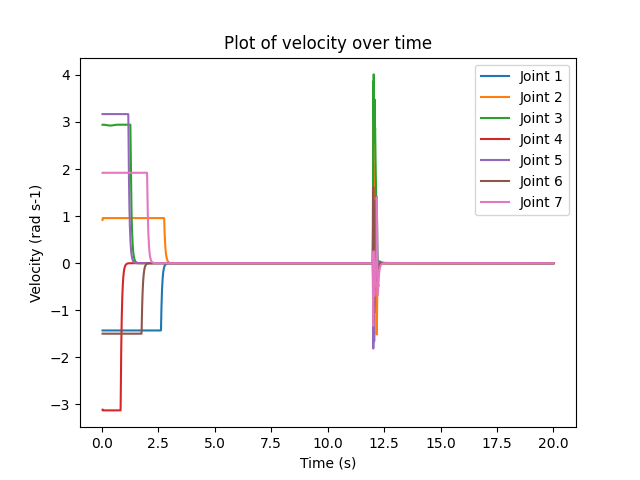
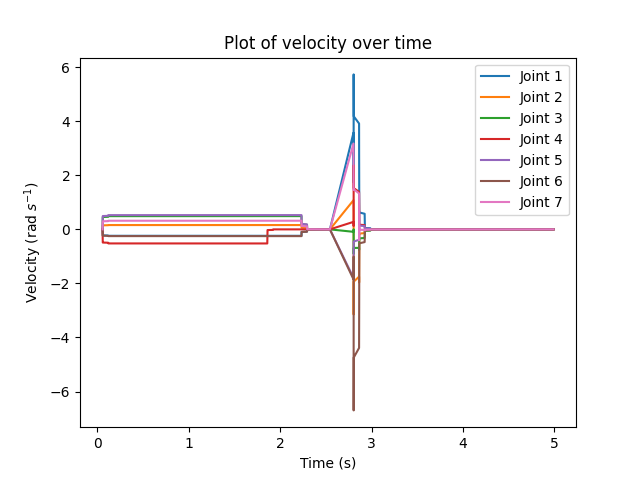
Trajectory Motion

diff --git a/main.py b/main.py
@@ -7,10 +7,18 @@ import pybullet_data
 import numpy as np
 import matplotlib.pyplot as plt
 from mpl_toolkits.mplot3d import Axes3D
+from matplotlib.animation import FuncAnimation
+
+import warnings
+warnings.simplefilter("ignore")
+warnings.filterwarnings("ignore", category=UserWarning, module="pybullet")
+
 
 
 robot_urdf = "kuka_lbr_iiwa_support/urdf/lbr_iiwa_14_r820.urdf"
 collision_index = None
+collison_joint = None
+predicted_joint = None
 
 
 def main():
@@ -30,10 +38,13 @@ def main():
     base_position = [0, 0, 0]
     robot = p.loadURDF(robot_urdf, base_position, useFixedBase=1)
 
+
     # Get the number of joints
     num_joints = p.getNumJoints(robot)
 
-    duration=20
+
+    initial_pos = [state[0] for state in p.getJointStates(robot, range(7))]
+    duration=5
     time_step = 1/240
     p.setTimeStep(time_step)
 
@@ -50,12 +61,10 @@ def main():
     
     print(final_joint_positions)
 
-    change = []
-    for jointIndex in range(num_joints-2):
-        # targetPositions[jointIndex] = jointPositions[jointIndex]
-        change.append(final_joint_positions[jointIndex] / duration)  # Calculate increment for each joint
-    print(change)
 
+
+    trajectory = get_trajectory(simulation_steps,initial_pos,final_joint_positions)
+    
     p_0 = None
     r_0 = None
     previous_velocities = None
@@ -72,8 +81,6 @@ def main():
     all_link_positions = {i: [] for i in range(num_joints)}
     kinetic_energy = []
 
-    position_errors = []
-
     # Display in the simulation how the robot goes from initial position, to our desired position
 
     startTime = time.time()
@@ -81,24 +88,21 @@ def main():
     force_not_applied = True
 
     p.setRealTimeSimulation(0)
-
+    
     while int(time.time() - startTime) < duration:
-        i = i+1
-        # print(i)
-        
-        p.stepSimulation()
-        time.sleep(time_step)
-
-        # if force_not_applied:
-        curr_pos = [state[0] for state in p.getJointStates(robot, range(7))]
-        move = [ele1+ele2 for ele1, ele2 in zip(curr_pos, change)]
-
-        # Set all joints to the final desired position
-        for jointIndex in range(num_joints):
-            p.setJointMotorControlArray(robot, range(7), p.POSITION_CONTROL, move)
-
         current_time = time.time()-startTime
-        # print(current_time)
+        i = i+1
+        #print(i)
+
+        #joint_angles = p.calculateInverseKinematics(robot, 7, pos)
+        p.stepSimulation()
+        # Set the joint angles of the manipulator arm
+        if i< simulation_steps:
+            p.setJointMotorControlArray(robot, range(7), p.POSITION_CONTROL,trajectory[i])
+        
+        #time.sleep(duration / simulation_steps)
+       
+        #print(current_time)
         time_steps.append(current_time)
         # print(f"Time step: {current_time}")
 
@@ -109,6 +113,7 @@ def main():
         joint_types = []
         joint_indexes = []
         joint_velocities_3D = []
+
 
         for joint_index in range(num_joints):
             link_state = p.getLinkState(robot, joint_index, computeLinkVelocity=1, computeForwardKinematics=1)
@@ -137,24 +142,19 @@ def main():
             joint_types.append(j_type)
             joint_velocities_3D.append(j_velocity_3D)
 
-        # print(joint_positions)
-        # print(joint_velocities)
-        # print(joint_names)
-        # print(joint_types)
+        # print("Pos", joint_positions)
+        # print("Vel", joint_velocities)
+        #print(joint_names)
+        #print(joint_types)
         # print(joint_indexes)
         # print(joint_velocities_3D)
 
-        ################################################################
-        error = np.subtract(np.array(joint_positions), np.array(final_joint_positions))
-        error = np.linalg.norm(error)
-        position_errors.append(error)
         ################################################################
 
         inertia_matrix = np.array(p.calculateMassMatrix(robot, joint_positions))
 
         # print(f"Inertia matrix: {inertia_matrix}")
         # print(inertia_matrix.shape)
-
         #################################################################
         ke = np.linalg.multi_dot([np.array(joint_velocities), inertia_matrix,
                                   np.array(joint_velocities).reshape(-1, 1)])
@@ -163,7 +163,7 @@ def main():
         #################################################################
 
         p_t = np.dot(inertia_matrix, joint_velocities)
-
+        #print(p_t)
         if i == 0:
 
             p_0 = np.array(p_t)
@@ -171,6 +171,7 @@ def main():
             previous_velocities = [0 for _ in range(len(joint_positions))]
 
             residuals.append(r_0)
+            #print(residuals)
 
         # print(f"Initial Momentum: {p_0}")
         # print(f"Initial residual: {r_0}")
@@ -195,9 +196,17 @@ def main():
         gravity_vector = p.calculateInverseDynamics(robot, list(joint_positions), [0.0] * len(joint_positions), [0.0] *
                                                     len(joint_positions))
 
+        inertia_accelerations = np.dot(inertia_matrix, np.array(joint_accelerations))
+
+        # C = np.subtract(tau, gravity_vector)
+        # C = np.subtract(C, inertia_accelerations)
+        # C = np.divide(C, np.array(joint_velocities).reshape(-1, 1))
+        # print(f"Coriolis matrix: {C}")
+        # print(f"Coriolis matrix shape: {C.shape}")
+
         #################################################################
 
-        if current_time > 12 and force_not_applied:
+        if current_time > 2.5 and force_not_applied:
             force_not_applied = False
             # Retrieve the link positions and orientations
             link_states = p.getLinkStates(robot, range(7))
@@ -210,11 +219,12 @@ def main():
 
             # Get the position and orientation of the randomly selected link
             selected_link = random_index
-            selected_link_position = link_positions[selected_link]
-            selected_link_orientation = link_orientations[selected_link]
+            selected_link_position = link_positions[random_index]
+            selected_link_orientation = link_orientations[random_index]
 
             global collision_index
             collision_index = i
+        
 
             # Create a visual marker at the selected point
             marker_size = 0.05
@@ -226,12 +236,13 @@ def main():
                                             baseCollisionShapeIndex=marker_collision,
                                             basePosition=selected_link_position,
                                             baseOrientation=selected_link_orientation)
-
+            
             # Run the simulation loop
-            print("\n\n\n\n")
-            print("FORCE APPLIED AT LINK", selected_link)
+            global collison_joint
+            collison_joint = random_index
+            print(collison_joint)
+            print("FORCE APPLIED AT LINK", random_index)
             print(f"FORCE APPLIED AT TIME: {current_time}")
-            print("\n\n\n\n")
 
         ##################### Algorithm ################################
         if i == 0:
@@ -250,15 +261,17 @@ def main():
         residuals.append(new_residual)
         threshold = 10
         mod_r = np.linalg.norm(new_residual)
+        global predicted_index
         if mod_r > threshold:
             result_index = check_r(new_residual)
             if result_index is not None:
                 print(new_residual, mod_r)
                 print("Link :", result_index+1)
+                predicted_index = result_index+1
             else:
                 print("No high number found with subsequent numbers closer to 0.")
 
-        print(f"New residual: {new_residual}, mod_r: {mod_r}")
+        #print(f"New residual: {new_residual}, mod_r: {mod_r}")
 
         #####################################################
 
@@ -268,11 +281,10 @@ def main():
     all_momenta.pop(0)
     all_joint_velocities.pop(0)
     kinetic_energy.pop(0)
-    position_errors.pop(0)
 
     plot_graph("Plot of residuals over time",
                "residuals",
-               "Residual",
+               "Residual (kg rad $s^{-1}$)",
                residuals,
                time_steps)
 
@@ -280,7 +292,7 @@ def main():
 
     plot_graph("Plot of momenta over time",
                "momenta",
-               "Momentum (kg/rad s-2)",
+               "Momentum (kg rad $s^{-1}$)",
                all_momenta,
                time_steps)
 
@@ -288,23 +300,15 @@ def main():
 
     plot_graph("Plot of velocity over time",
                "velocities",
-               "Velocity (rad s-1)",
+               "Velocity (rad $s^{-1}$)",
                all_joint_velocities,
                time_steps)
 
     plt.clf()
 
-    plot_scalar_graph("Plot of errors in joint position",
-                      "error",
-                      "Error",
-                      position_errors,
-                      time_steps)
-
-    plt.clf()
-
     plot_scalar_graph("Plot of kinetic energy over time",
                       "kinetic_energy",
-                      "Kinetic Energy",
+                      "Kinetic Energy (kg $rad^2$ $s^{-2}$)",
                       kinetic_energy,
                       time_steps)
 
@@ -313,11 +317,13 @@ def main():
     positions = all_link_positions[selected_link]
 
     plot_3d_graph("Plot of collision-affected link movement",
-                  f"link_movement_{selected_link}",
+                  "link_movement",
                   "Euclidean distance",
                   positions)
 
     p.disconnect()
+
+    return collison_joint,predicted_index
 
 
 def plot_scalar_graph(title, figure_name, variable_name, variables, time_steps):
@@ -375,7 +381,6 @@ def plot_3d_graph(title, figure_name, variable_name, variables):
 
     plt.savefig(figure_name+".png")
 
-
 def check_r(numbers):
 
     print(f"original: {numbers}")
@@ -391,6 +396,18 @@ def check_r(numbers):
 
     # If no such index is found, return -1 or raise an exception
     return -1
+
+def get_trajectory(num_steps,initial_pos,final_pos): 
+    trajectory = []  # List to store intermediate end effector positions
+    for step in range(num_steps):
+        t = step / float(num_steps)  # Normalized time from 0.0 to 1.0
+        # Calculate position for this step using linear interpolation
+        interpolated_pos = np.add(initial_pos, np.multiply(t, np.subtract(final_pos, initial_pos)))
+        trajectory.append(interpolated_pos)
+    
+    return trajectory
+# Manipulator arm should have moved to the desired final position
+
 
 
 if __name__ == '__main__':
